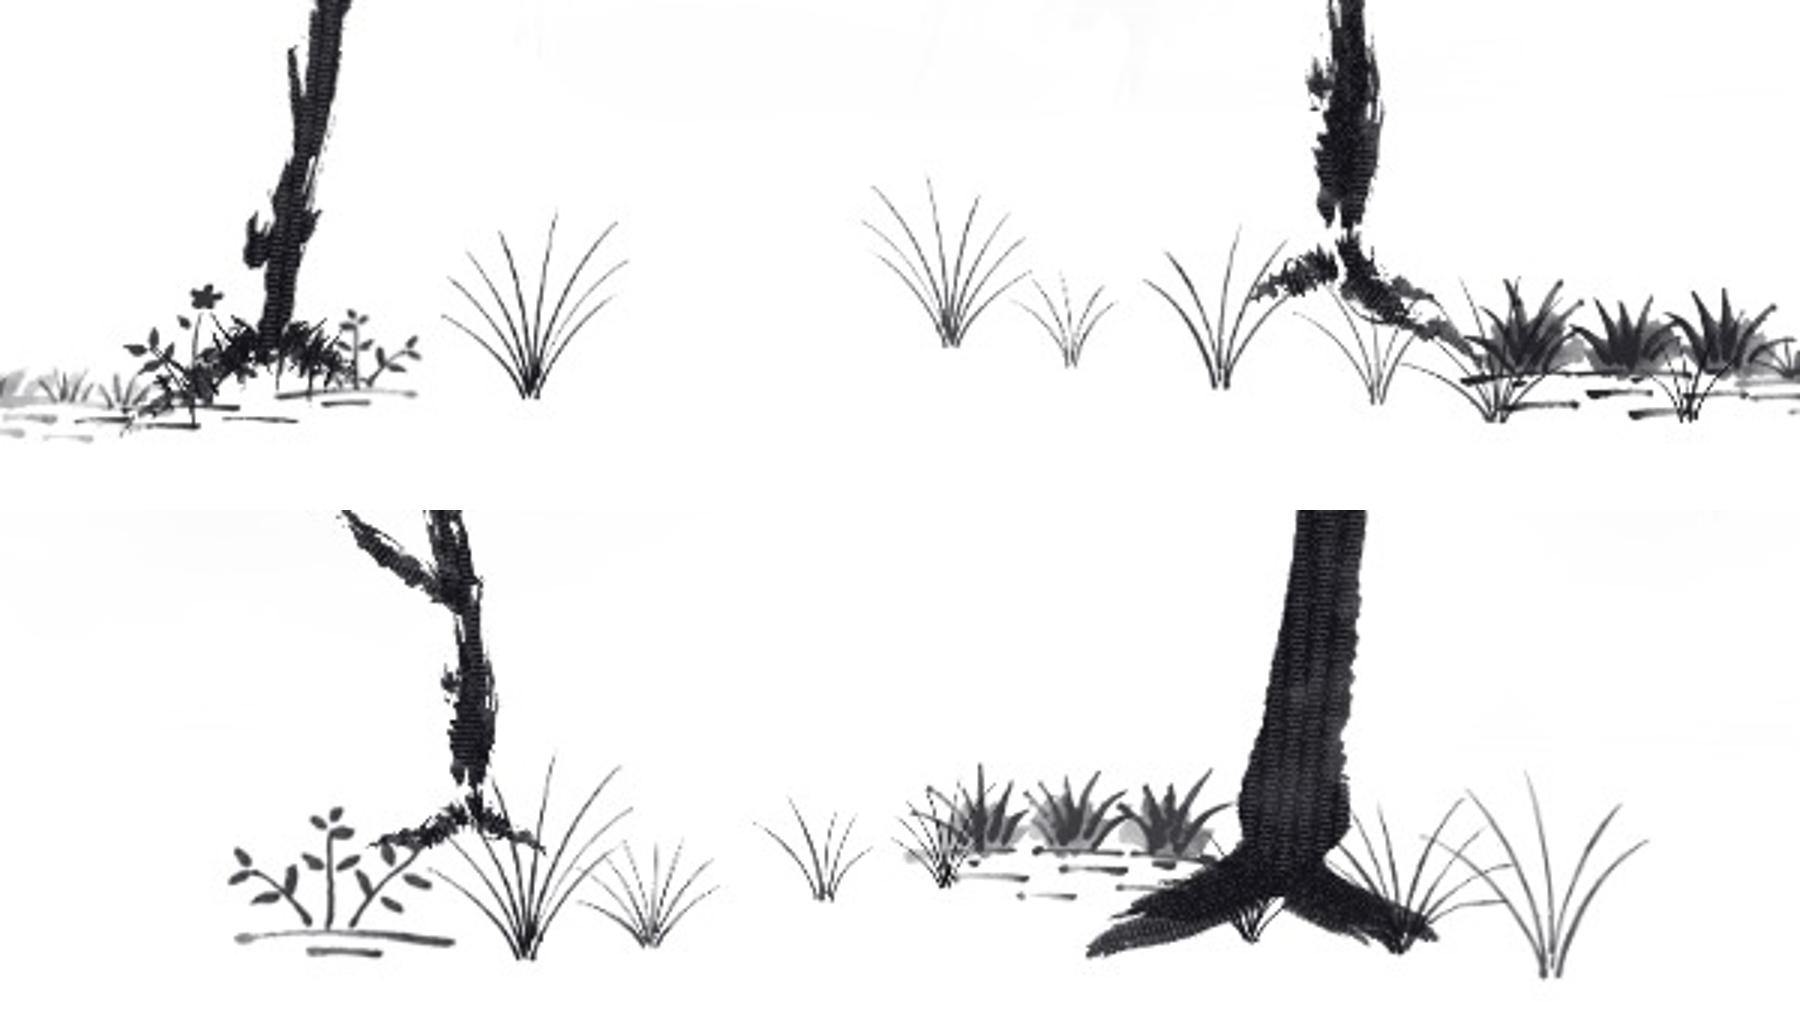
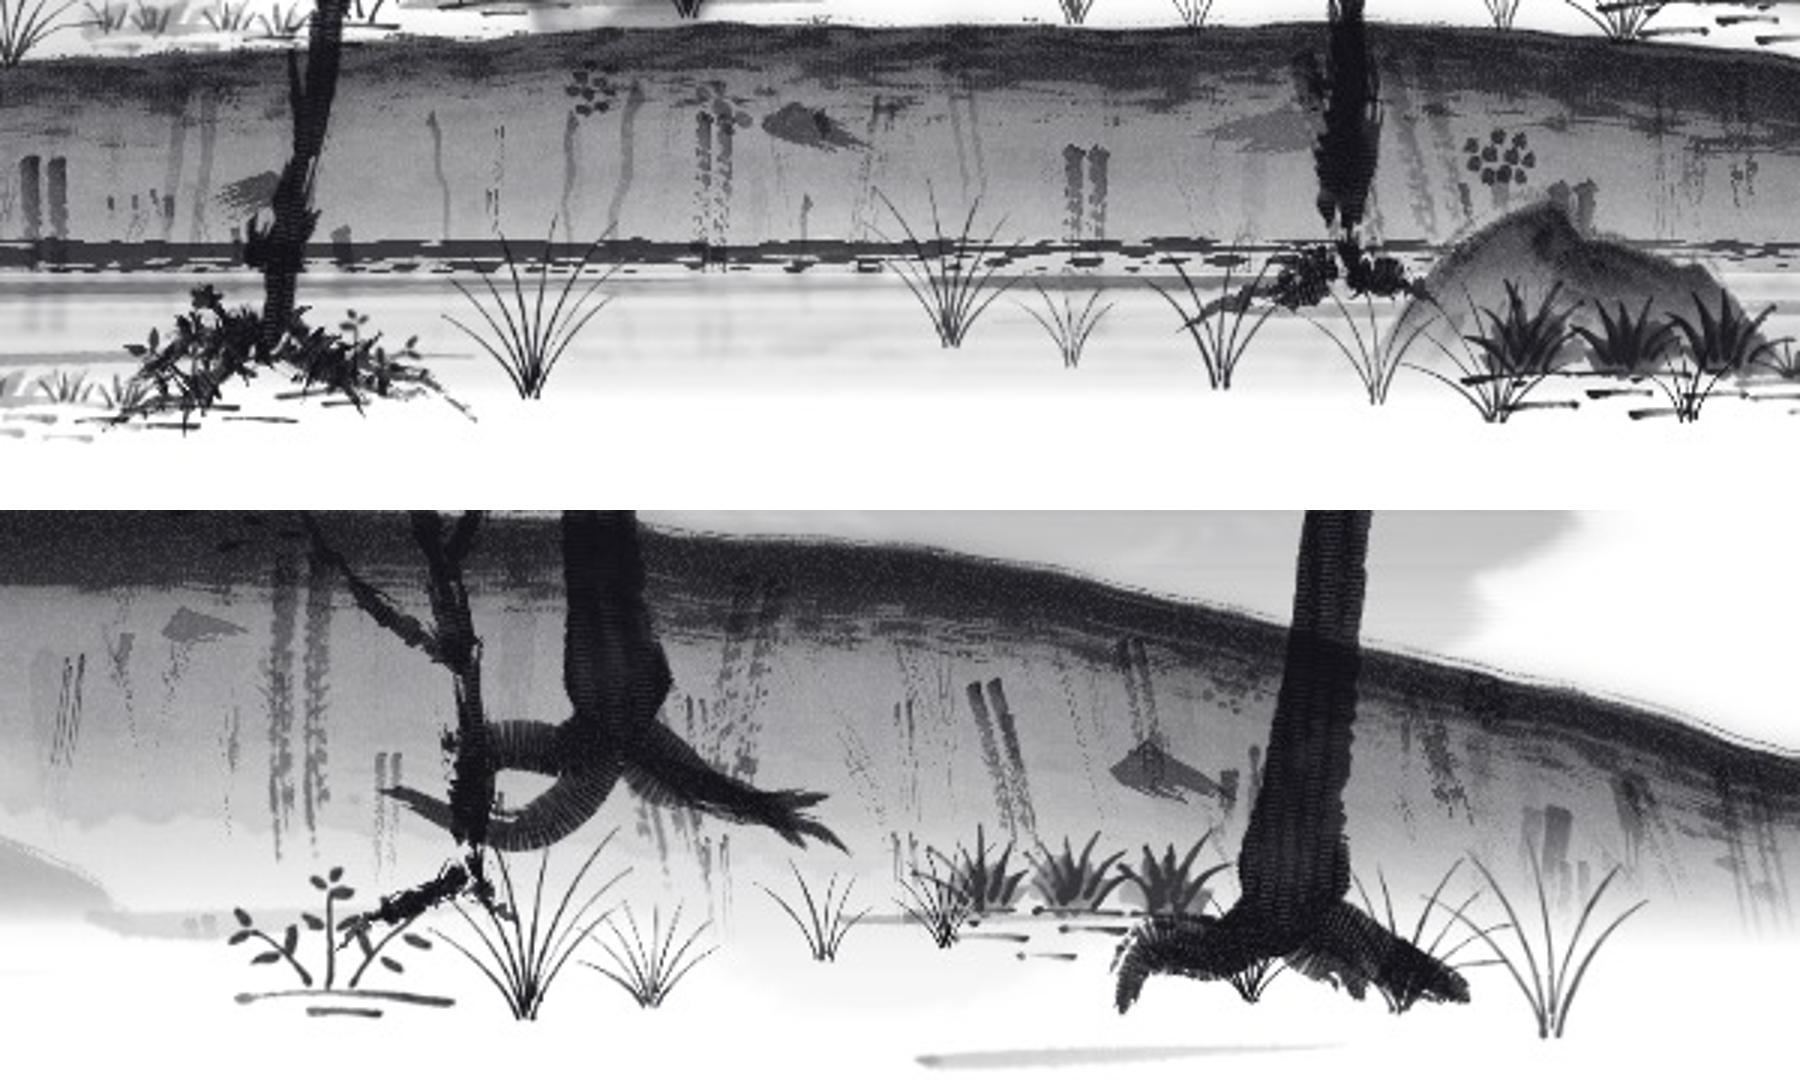
Roots: more of them, winding, forked, plunging at the end

diff --git a/web/room/paint.js b/web/room/paint.js
@@ -1066,15 +1066,22 @@
     //    The thick starts overlap the trunk's blunt cut and hide it. Bamboo: a fan of short dry whiskers under the cane.
     //    Dice of its own, so the tree above it is the tree it was.
     if (!zhe) { const Rr = dice(d.seed ^ 0x3c19), bam = kind === 'bamboo', kD = kitDry.length ? kitDry : kitAll, qR = bam ? kD[Math.floor(Rr() * kD.length) % kD.length] : qT, thR = bam ? Math.max(0.6 * th0, 0.004 * H) : th0,
-        ux = tan[0][0], uy = tan[0][1], nr = bam ? 4 + Math.floor(Rr() * 3) : 2 + Math.floor(Rr() * 2) + (th0 > 0.02 * H ? 1 : 0) + (th0 > 0.045 * H ? 1 : 0); let sd = Rr() < 0.5 ? -1 : 1;
-      for (let k = 0; k < nr; k++) { sd = -sd; const len = bam ? (0.012 + 0.016 * Rr()) * H : Math.max(0.014 * H, th0 * (1.0 + 1.5 * Rr()) * (k < 2 ? 1 : 0.7)), m = Math.max(6, Math.round(len / 3)), up = bam ? 0.05 : 0.12 + 0.3 * Rr(),
-          Q = [[P[0][0] + ux * up * th0 + (bam ? (k / (nr - 1) - 0.5) * 0.5 * th0 : sd * 0.14 * th0), P[0][1] + uy * up * th0]], aT = (sd > 0 ? 0 : Math.PI) + sd * (0.05 + 0.2 * Rr()), ek = Math.round(m * (0.3 + 0.4 * Rr())), et = (Rr() - 0.5) * 0.7;
-        let a = bam ? 1.5708 + (k / (nr - 1) - 0.5) * 1.7 + (Rr() - 0.5) * 0.3 : 1.5708 - sd * (0.35 + 0.6 * Rr()), x = Q[0][0], y = Q[0][1];
+        ux = tan[0][0], uy = tan[0][1], nr = bam ? 4 + Math.floor(Rr() * 3) : 3 + Math.floor(Rr() * 2) + (th0 > 0.02 * H ? 1 : 0) + (th0 > 0.045 * H ? 1 : 0); let sd = Rr() < 0.5 ? -1 : 1;
+      // (First: two or three, straight, one each side: a chicken's foot, Yang 11-19 "chỉnh tiếp".) More of them, unequal; each winds
+      // as it goes, lies over to level, and plunges at its end; one in two forks a rootlet off its lower side; now and then a
+      // short one comes straight toward the viewer
+      const root = (x, y, a, len, u0, s, depth) => { const m = Math.max(6, Math.round(len / 3)), Q = [[x, y]], aT = (s > 0 ? 0 : Math.PI) + s * (0.02 + 0.25 * Rr()), wA = 0.18 + 0.24 * Rr(), wf = 0.8 + 0.9 * Rr(), wp = 6.283 * Rr(), ek = Math.round(m * (0.25 + 0.45 * Rr())), et = (Rr() - 0.5) * 0.9, dip = 0.45 + 0.6 * Rr();
         for (let i = 1; i <= m; i++) { const f = i / m;
-          if (bam) a += (Rr() - 0.5) * 0.2 + (a < 1.5708 ? -0.25 : 0.25) / m;
-          else a += (f < 0.7 ? 2.6 * wrapR(aT - a) / m : sd * 1.5 / m) + (Rr() - 0.5) * 0.12 + (i === ek ? et : 0);
+          a += (f < 0.65 ? 3.2 * wrapR(aT - a) / m : s * dip / (0.35 * m)) + wA * 6.283 * wf / m * Math.cos(6.283 * wf * f + wp) + (Rr() - 0.5) * 0.14 + (i === ek ? et : 0);
           x += Math.cos(a) * len / m; y += Math.sin(a) * len / m; Q.push([x, y]); }
-        if (bam) g.globalAlpha = 0.75; limb(Q, bam ? 0.72 + 0.15 * Rr() : 0.42 + 0.3 * Rr() + (k < 2 ? 0 : 0.1), g, ox, oy, qR, thR); g.globalAlpha = 1; } }
+        limb(Q, u0, g, ox, oy, qR, thR);
+        if (depth < 1 && len > 0.02 * H && Rr() < 0.55) { const k = Math.round(m * (0.3 + 0.3 * Rr())); root(Q[k][0], Q[k][1], Math.atan2(Q[k + 1][1] - Q[k][1], Q[k + 1][0] - Q[k][0]) + s * (0.45 + 0.5 * Rr()), len * (0.35 + 0.25 * Rr()), Math.min(0.9, u0 + 0.18 + 0.1 * Rr()), s, depth + 1); } };
+      for (let k = 0; k < nr; k++) { sd = Rr() < 0.8 ? -sd : sd; const up = bam ? 0.05 : 0.08 + 0.4 * Rr(), x0 = P[0][0] + ux * up * th0 + (bam ? (k / (nr - 1) - 0.5) * 0.5 * th0 : sd * 0.14 * th0), y0 = P[0][1] + uy * up * th0;
+        if (bam) { const len = (0.012 + 0.016 * Rr()) * H, m = 6, Q = [[x0, y0]]; let a = 1.5708 + (k / (nr - 1) - 0.5) * 1.7 + (Rr() - 0.5) * 0.3, x = x0, y = y0;
+          for (let i = 1; i <= m; i++) { a += (Rr() - 0.5) * 0.2 + (a < 1.5708 ? -0.25 : 0.25) / m; x += Math.cos(a) * len / m; y += Math.sin(a) * len / m; Q.push([x, y]); }
+          g.globalAlpha = 0.75; limb(Q, 0.72 + 0.15 * Rr(), g, ox, oy, qR, thR); g.globalAlpha = 1; continue; }
+        const front = k >= 2 && Rr() < 0.3, len = Math.max(0.02 * H, th0 * (front ? 0.7 + 0.5 * Rr() : 1.1 + 1.7 * Rr()) * (k < 2 ? 1 : 0.75));
+        root(x0, y0, 1.5708 - sd * (front ? 0.1 + 0.25 * Rr() : 0.3 + 0.75 * Rr()), len, 0.38 + 0.3 * Rr() + (k < 2 ? 0 : 0.1), sd, front ? 1 : 0); } }
     // The branch is alive (Yang 11-19: swaying in the wind, a petal or a blossom letting go now and then). The old wood
     // is painted once and stays; every twig is a small painting of its own (its wood, its blossoms), turned a little
     // about the point it grows from, each frame, on a layer of its own (as a river's current): a shoot on an old side
